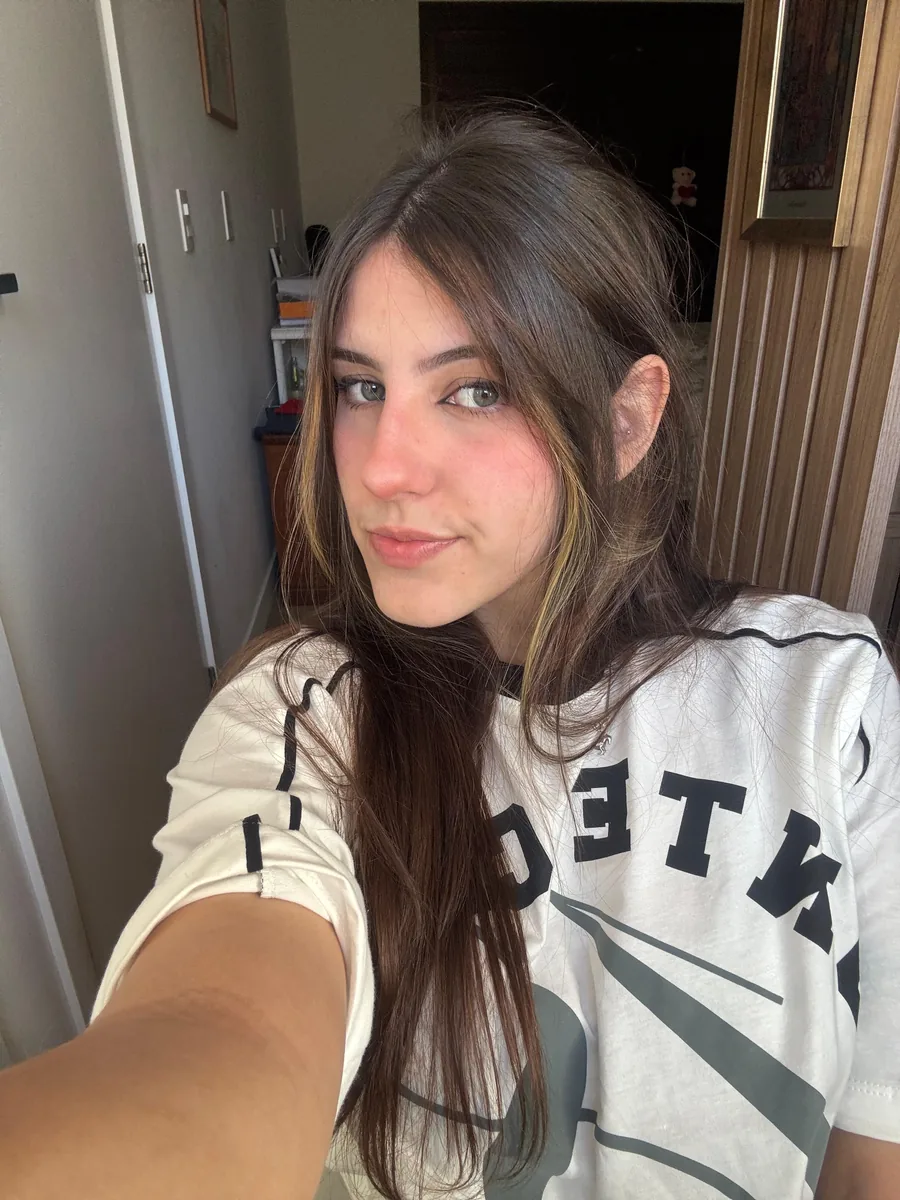
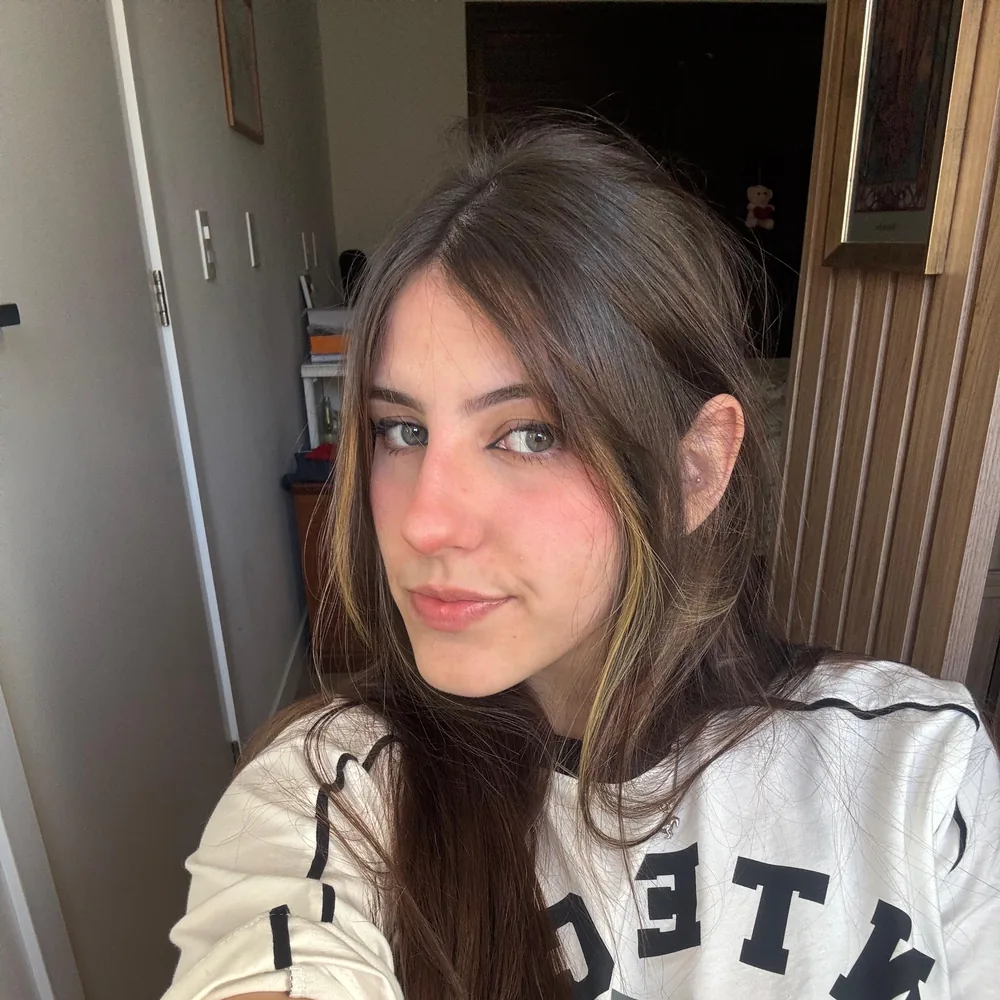
corta a foto do sobre mim

diff --git a/index.html b/index.html
@@ -55,7 +55,7 @@
     <section class="sobre container" id="sobre">
       <h2>Sobre mim</h2>
       <div class="sobre__conteudo">
-        <img src="assets/img/ui/livia-portfolio.webp" alt="Foto da Lívia" class="sobre__foto" width="900" height="1200"
+        <img src="assets/img/ui/livia-portfolio.webp" alt="Foto da Lívia" class="sobre__foto" width="1000" height="1000"
           loading="lazy" />
         <div class="sobre__texto">
           <p>
